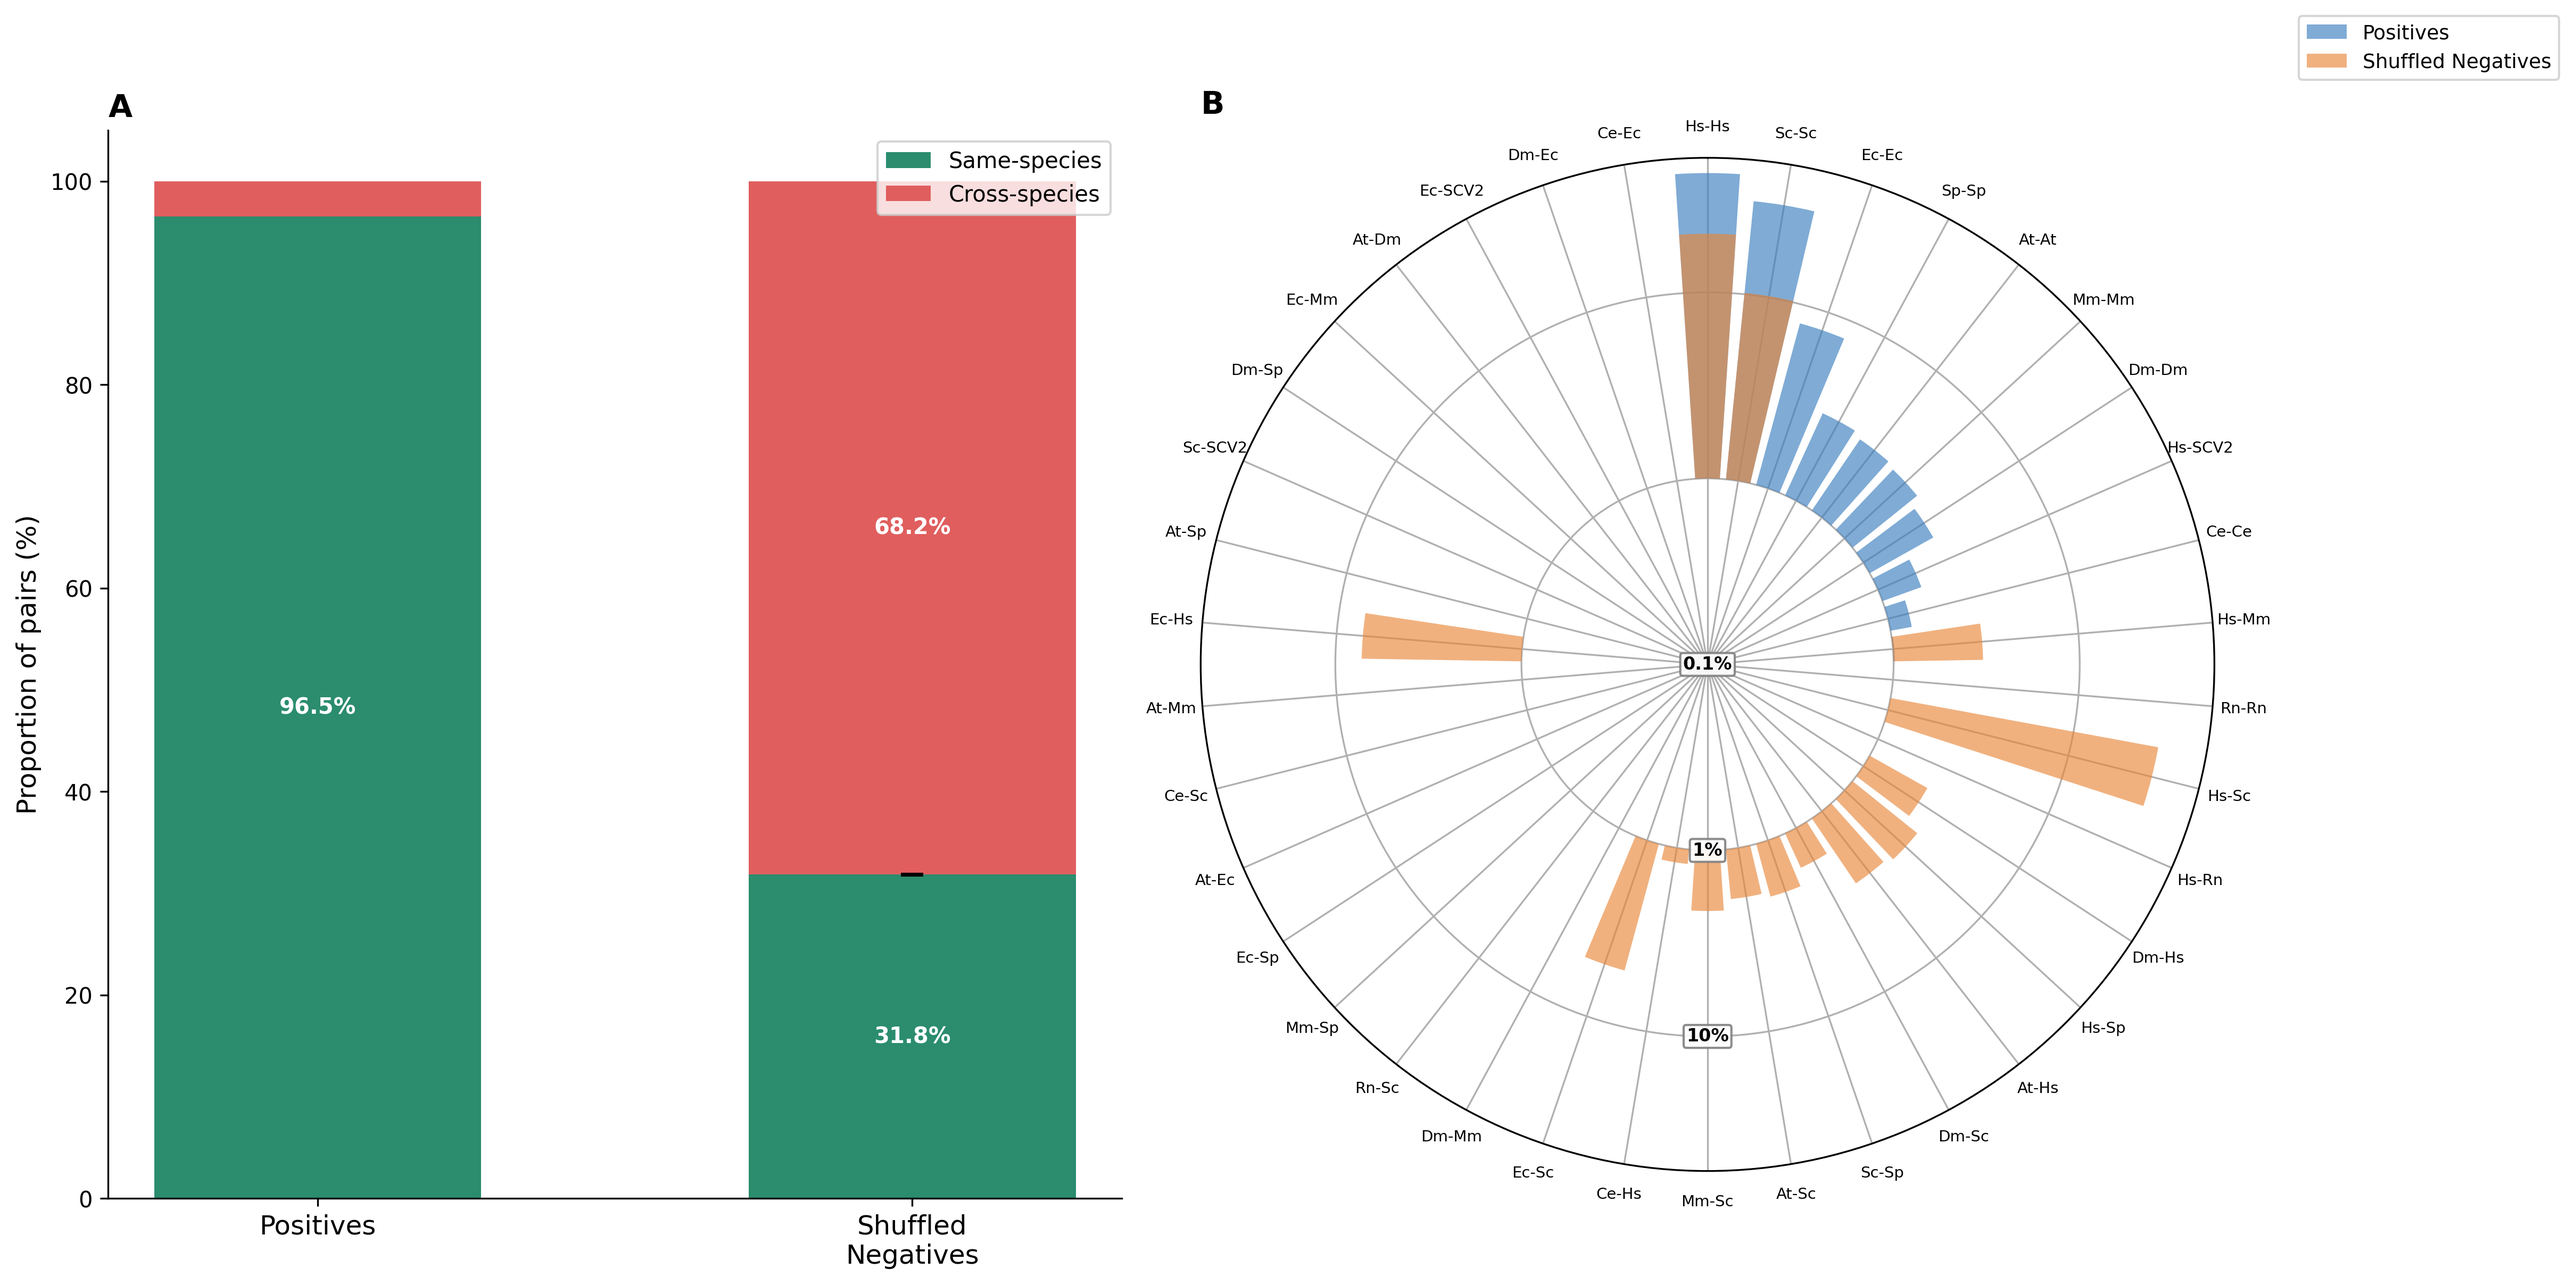
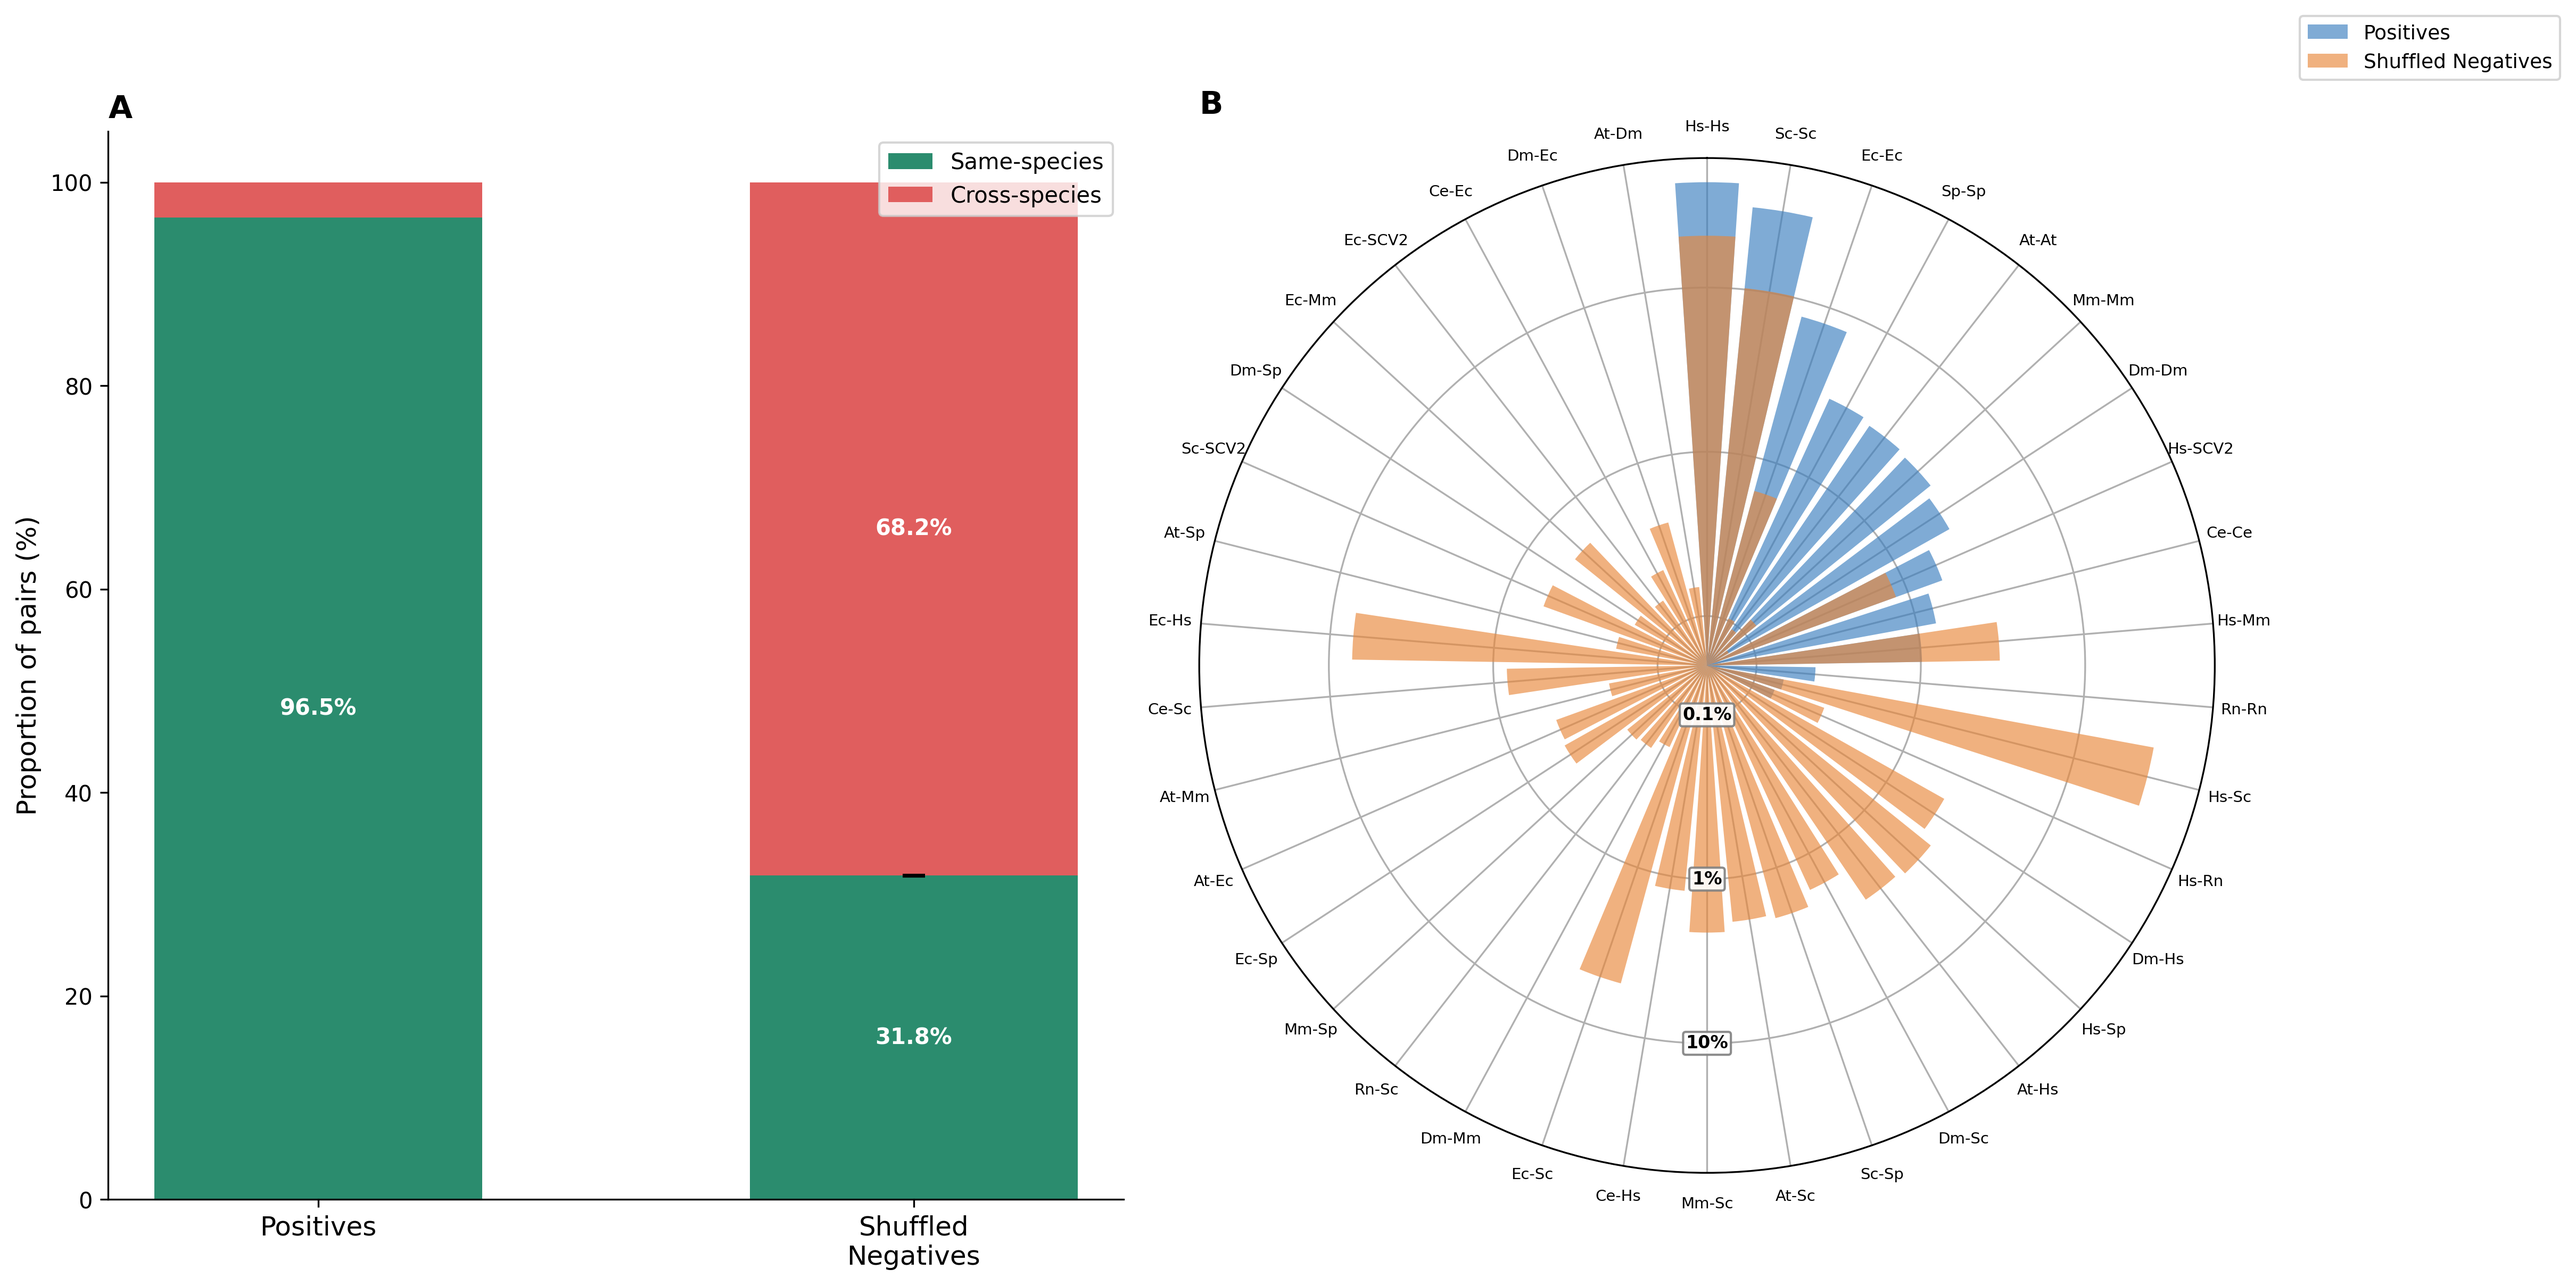
u

diff --git a/interspecies_experiment.py b/interspecies_experiment.py
@@ -3,6 +3,7 @@ Train SS and NS PPI models on BIOGRID-MV, then evaluate on interspecies PPI subg
 """
 import argparse
 import os
+import pickle
 import random
 
 import numpy as np
@@ -40,8 +41,8 @@ except ImportError:
 def parse_args() -> argparse.Namespace:
     parser = argparse.ArgumentParser(description="Interspecies PPI experiment")
     parser.add_argument("--plm_path", type=str, default="Synthyra/ESMplusplus_large")
-    parser.add_argument("--batch_size", type=int, default=48)
-    parser.add_argument("--lr", type=float, default=5e-5)
+    parser.add_argument("--batch_size", type=int, default=128)
+    parser.add_argument("--lr", type=float, default=1e-4)
     parser.add_argument("--max_length", type=int, default=512)
     parser.add_argument("--hidden_size", type=int, default=512)
     parser.add_argument("--output_size", type=int, default=128)
@@ -445,32 +446,54 @@ def main():
     results_dir = "results/interspecies_experiment"
     os.makedirs(results_dir, exist_ok=True)
 
-    # 1. Load data
-    positives, seq_dict, interaction_set = load_biogrid_mv(args.bugfix)
+    cache_path = os.path.join(results_dir, "cached_splits.pkl")
+    if os.path.exists(cache_path):
+        print(f"Loading cached dataset from {cache_path}")
+        with open(cache_path, "rb") as f:
+            cached = pickle.load(f)
+        seq_dict = cached["seq_dict"]
+        ss_train = cached["ss_train"]
+        ss_valid = cached["ss_valid"]
+        ss_test = cached["ss_test"]
+        ns_train = cached["ns_train"]
+        ns_valid = cached["ns_valid"]
+        ns_test = cached["ns_test"]
+        print(f"  SS train={len(ss_train)}  NS train={len(ns_train)}  test={len(ss_test)}")
+    else:
+        # 1. Load data
+        positives, seq_dict, interaction_set = load_biogrid_mv(args.bugfix)
 
-    # 2. Cluster
-    cluster_dict = cluster_sequences(
-        seq_dict,
-        method="mmseqs2",
-        cluster_percentage=0.4,
-        coverage=0.8,
-        identifier="biogrid_mv",
-        base_path="data",
-    )
-    print(f"Clustering: {len(seq_dict)} sequences -> {len(cluster_dict)} clusters")
+        # 2. Cluster
+        cluster_dict = cluster_sequences(
+            seq_dict,
+            method="mmseqs2",
+            cluster_percentage=0.4,
+            coverage=0.8,
+            identifier="biogrid_mv",
+            base_path="data",
+        )
+        print(f"Clustering: {len(seq_dict)} sequences -> {len(cluster_dict)} clusters")
 
-    # 3. Interspecies-aware C3 split
-    train_pos, valid_pos, test_pos = interspecies_aware_split(
-        positives, cluster_dict, args.min_test_rows, args.min_interspecies,
-    )
+        # 3. Interspecies-aware C3 split
+        train_pos, valid_pos, test_pos = interspecies_aware_split(
+            positives, cluster_dict, args.min_test_rows, args.min_interspecies,
+        )
 
-    # 4. Generate negatives for SS and NS
-    ss_train, ss_valid, ss_test = add_negatives(train_pos, valid_pos, test_pos, interaction_set, matching_orgs=True)
-    ns_train, ns_valid, ns_test = add_negatives(train_pos, valid_pos, test_pos, interaction_set, matching_orgs=False)
+        # 4. Generate negatives for SS and NS
+        ss_train, ss_valid, ss_test = add_negatives(train_pos, valid_pos, test_pos, interaction_set, matching_orgs=True)
+        ns_train, ns_valid, ns_test = add_negatives(train_pos, valid_pos, test_pos, interaction_set, matching_orgs=False)
 
-    # Shared test set: test positives are the same, test negatives use matching_orgs=True for both
-    # Verify test sets are identical
-    assert ss_test["IdA"].tolist() == ns_test["IdA"].tolist(), "Test sets should be identical"
+        # Shared test set: test positives are the same, test negatives use matching_orgs=True for both
+        assert ss_test["IdA"].tolist() == ns_test["IdA"].tolist(), "Test sets should be identical"
+
+        # Cache processed splits
+        with open(cache_path, "wb") as f:
+            pickle.dump({
+                "seq_dict": seq_dict,
+                "ss_train": ss_train, "ss_valid": ss_valid, "ss_test": ss_test,
+                "ns_train": ns_train, "ns_valid": ns_valid, "ns_test": ns_test,
+            }, f)
+        print(f"Cached dataset to {cache_path}")
 
     # 5. Embed
     embed_dict = embed_sequences(seq_dict, args.plm_path, args.max_length)
